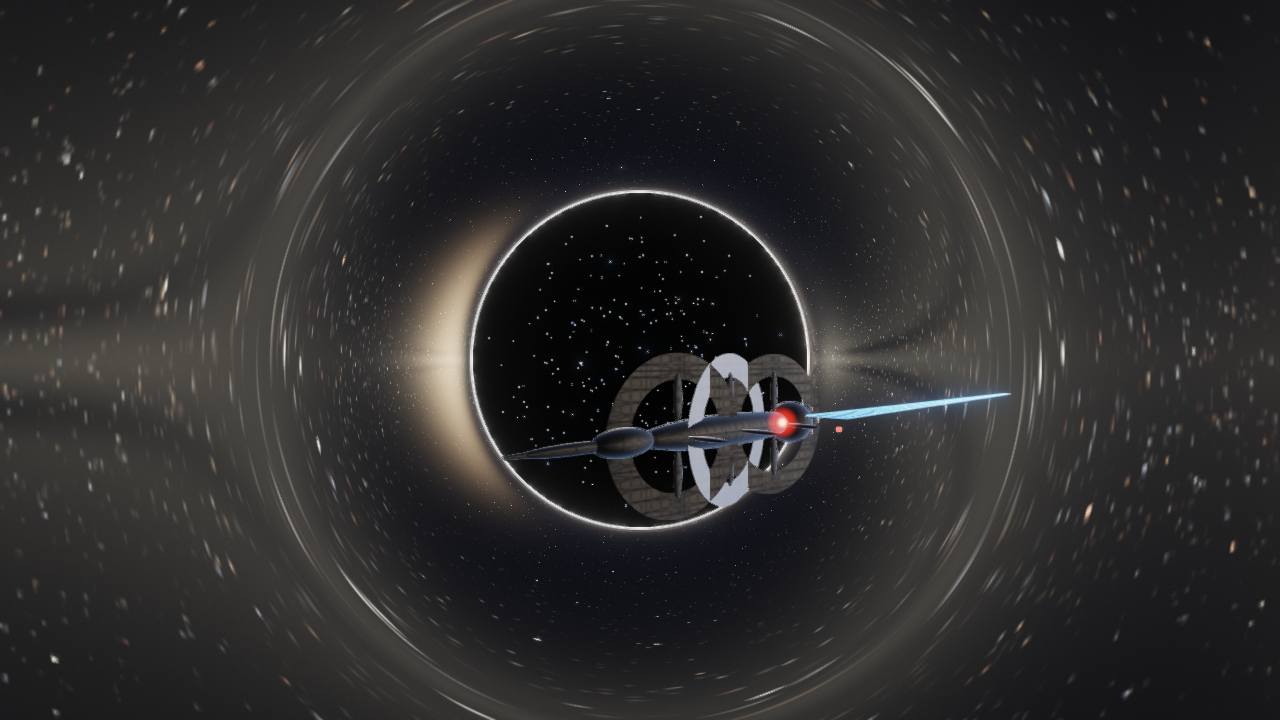
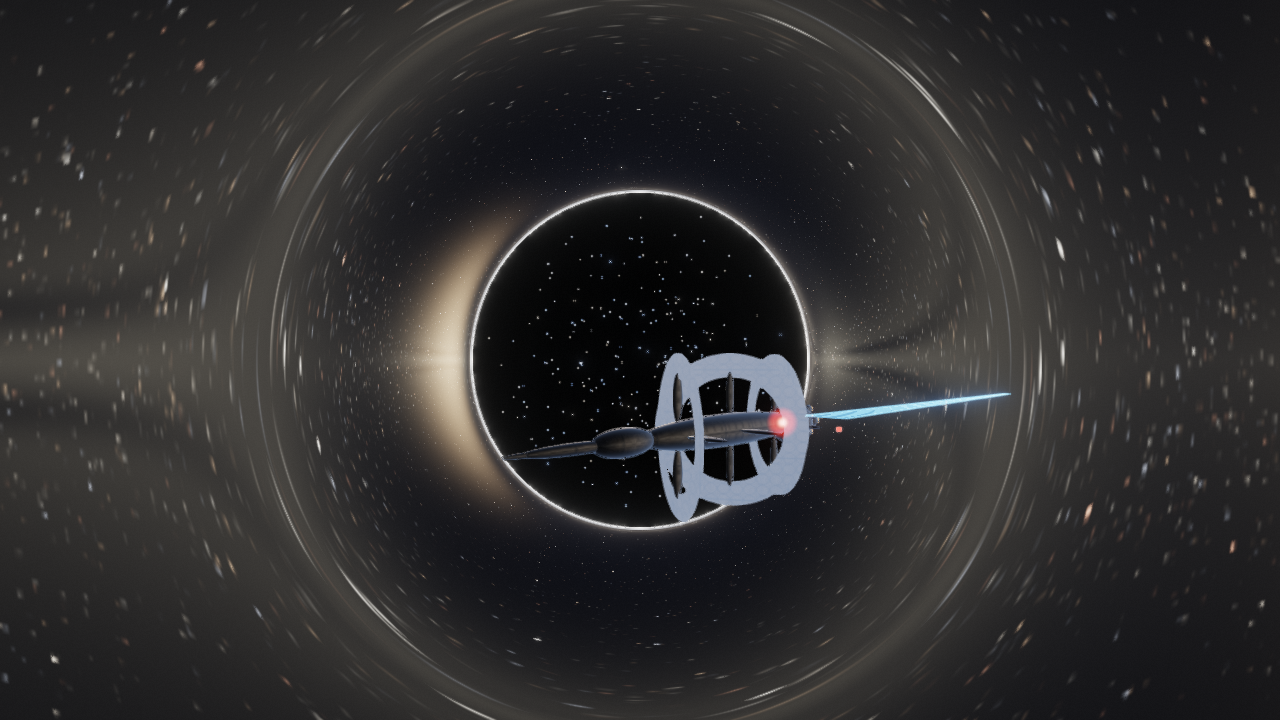
fix(v3.8.3): smooth ring spin - integrate thrust/warp spin rate per frame
- Ring Ship rings snapped on thrust/warp changes: angle was time*rate with a varying rate, so a rate ramp multiplied by session time jerked the rings by hundreds of radians; the variable part now integrates per frame (base 0.55 stays on the absolute clock, steady-state identical).
- Gates: GL build OK, ctest 5/6 (test_save fails only inside the development sandbox - %TEMP% mkdir denied; standard environment 6/6), static checks all pass (res/catalog.json version re-aligned with VERSION), 32 harness refs byte-identical except planned ship_ring.png (new ring phase) and menu.png (3.8.3 footer).
- docs/BUILD.md: model hull regeneration pipeline (tools/fbx_ship_export.mjs) and the heavy-assets policy.

Changed region(s): [[0.4688, 0.4889, 0.6562, 0.7333]]

diff --git a/src/SceneManager.cpp b/src/SceneManager.cpp
@@ -1884,11 +1884,20 @@ void SceneManager::render(const Camera& camera, int fbWidth, int fbHeight, float
                                           glm::radians(90.0f),
                                           glm::vec3(1.0f, 0.0f, 0.0f));
               // Спин кольца: раскручивается тягой и варпом, соседние кольца
-              // вращаются в разные стороны (живее силуэт).
-              const float spinRate = 0.55f + 2.6f * thrW + 8.0f * warpVis;
+              // вращаются в разные стороны (живее силуэт). База 0.55*time
+              // остаётся исторической (детерминизм харнесса), а переменную
+              // часть скорости интегрируем по кадрам: вариант time*rate
+              // давал рывок фазы ~ time*dRate — кольца «телепортировались»
+              // при включении варпа на рабочем столе минут за десять.
+              static float s_spinVar = 0.0f;
+              static float s_spinPrev = time;
+              const float dtS = time - s_spinPrev;
+              s_spinPrev = time;
+              if (dtS > 0.0f && dtS < 0.5f)
+                s_spinVar += (2.6f * thrW + 8.0f * warpVis) * dtS;
               const float spinDir = (ringIdx % 2 == 0) ? 1.0f : -1.0f;
               model = model * glm::rotate(glm::mat4(1.0f),
-                                          time * spinRate * spinDir,
+                                          spinDir * (0.55f * time + s_spinVar),
                                           glm::vec3(0.0f, 0.0f, 1.0f));
               ++ringIdx;
             }

diff --git a/src/Version.h b/src/Version.h
@@ -2,6 +2,6 @@
 #include <string>
 
 namespace astro {
-inline const char* kVersion = "3.8.2";
+inline const char* kVersion = "3.8.3";
 inline const char* kAppName = "astro-voyager";
 }  // namespace astro

diff --git a/CHANGELOG.md b/CHANGELOG.md
@@ -1,5 +1,12 @@
 # CHANGELOG
 
+## 3.8.3 - 2026-10-19
+
+## What's new / Что нового
+- EN: Ring spin fix - the procedural Ring Ship's rings snapped/jerked whenever thrust or warp intensity changed (turning warp on after a long desktop session teleported the ring rotation by hundreds of radians per second because the angle was computed as time * rate with a time-varying rate). The variable part of the spin rate is now integrated per-frame; the 0.55 base stays on the absolute clock, so steady-state motion is identical and the transient is smooth.
+- RU: Фикс кручения колец - кольца процедурного Ring Ship рывками «телепортировались» при изменении тяги или включении варпа (угол считался как time * rate при переменной rate - после десяти минут на рабочем столе разгон ударял кольца сотнями радиан за секунду). Переменная часть скорости теперь интегрируется по кадрам; база 0.55 остаётся на абсолютном времени, установившийся режим идентичен, переход плавный.
+- Gates / Гейты: GL build OK, ctest 5/6 (test_save падает только в опеновской песочнице - среда запрещает процессу создавать каталоги в %TEMP%, на обычном десктопе 6/6), референсы: единственное плановое отличие ship_ring.png (новая фаза колец), остальные 30 снимков байт-в-байт, menu.png обновлён (футер версии).
+
 ## 3.8.2 - 2026-10-18
 
 ## What's new / Что нового

diff --git a/docs/BUILD.md b/docs/BUILD.md
@@ -44,6 +44,29 @@ cmake --build build-gl --config Release
 .\build-gl\Release\astro-voyager.exe --screenshot-all
 ```
 
+## Модель корабля (стиль 3 «Model (OBJ)»)
+
+Корпус по умолчанию процедурный; AI-модель (Tripo FBX и т.п.) превращается в
+игровой OBJ утилитой `tools/fbx_ship_export.mjs` (Node >= 18, без зависимостей):
+
+```bash
+# модель -> res/models/warp_ship.obj (bake: нос в -Z, длина 2.3, децимация)
+node tools/fbx_ship_export.mjs path\to\model.fbx res\models --name warp_ship
+
+# без PBR-карт (только меш):
+node tools/fbx_ship_export.mjs model.fbx res\models --no-tex
+```
+
+Экспортёр тянет из FBX и четыре PBR-карты (albedo / normal / rough / metal)
+в 24-битный BMP рядом с .obj; `src/ObjModel.cpp` читает их напрямую, без
+stb_image и zlib. Нет карт — корпус остаётся плоско-металлическим; нет .obj —
+возвращается процедурный Ring Ship.
+
+Политика тяжёлых ассетов: `.obj` и `.bmp` игнорируются git'ом (`res/models/`)
+и перегенерируются из исходного FBX этой командой; репозиторий тянет только
+утилиту и шейдеры. Скин процедурного Ring Ship всегда генерится из
+`tools/make_ring_skin.mjs` (без внешнего FBX).
+
 ## Тесты
 
 ```bash
